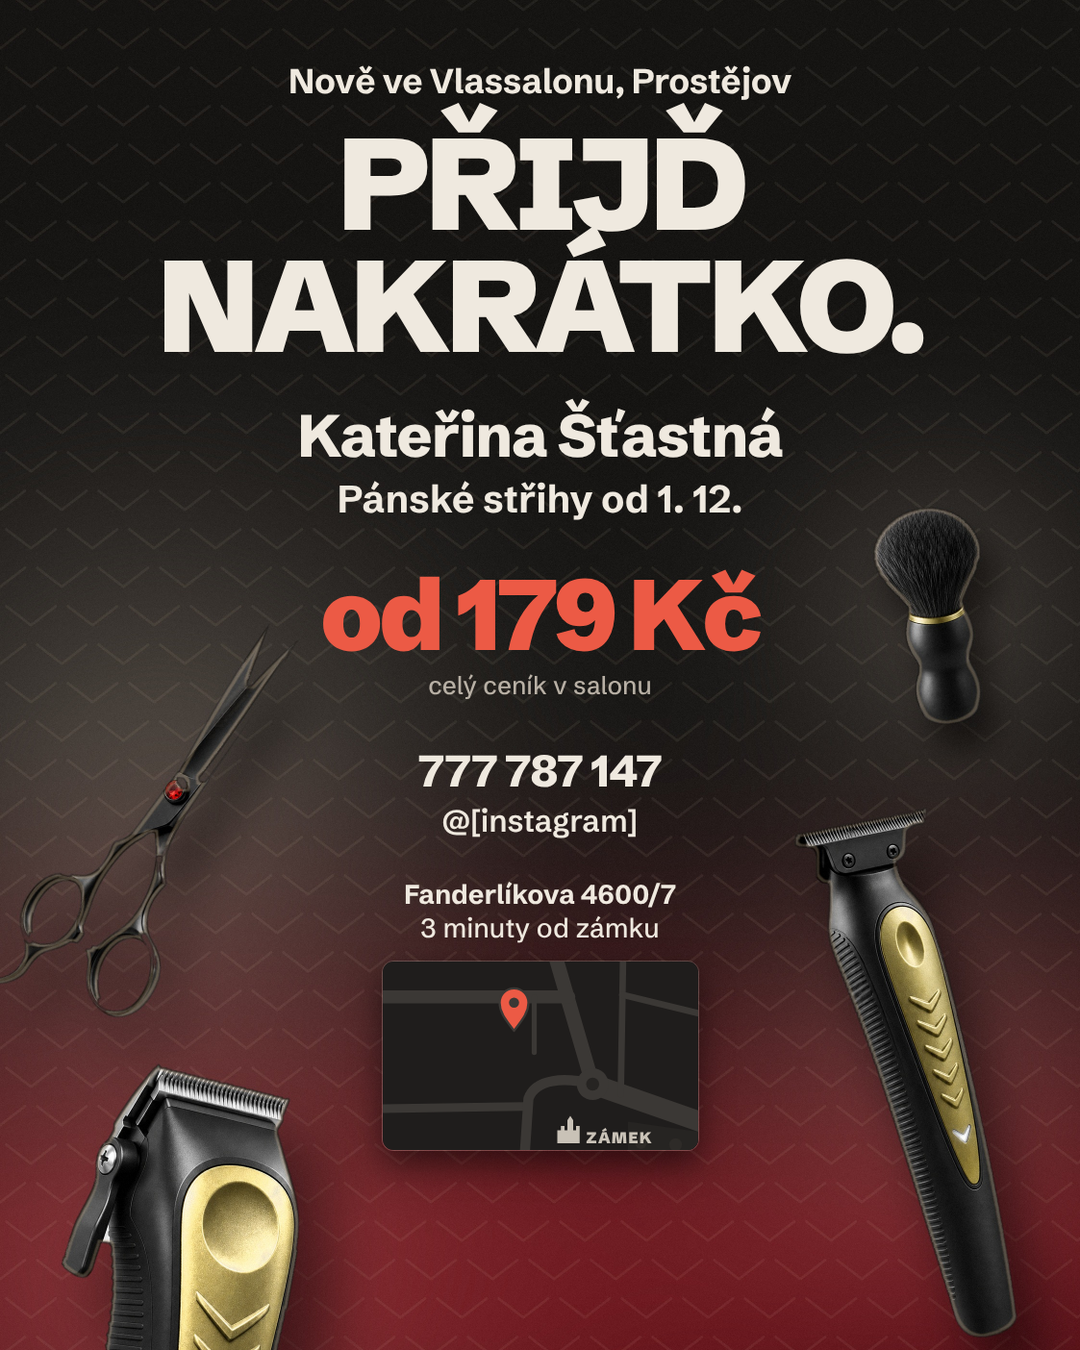
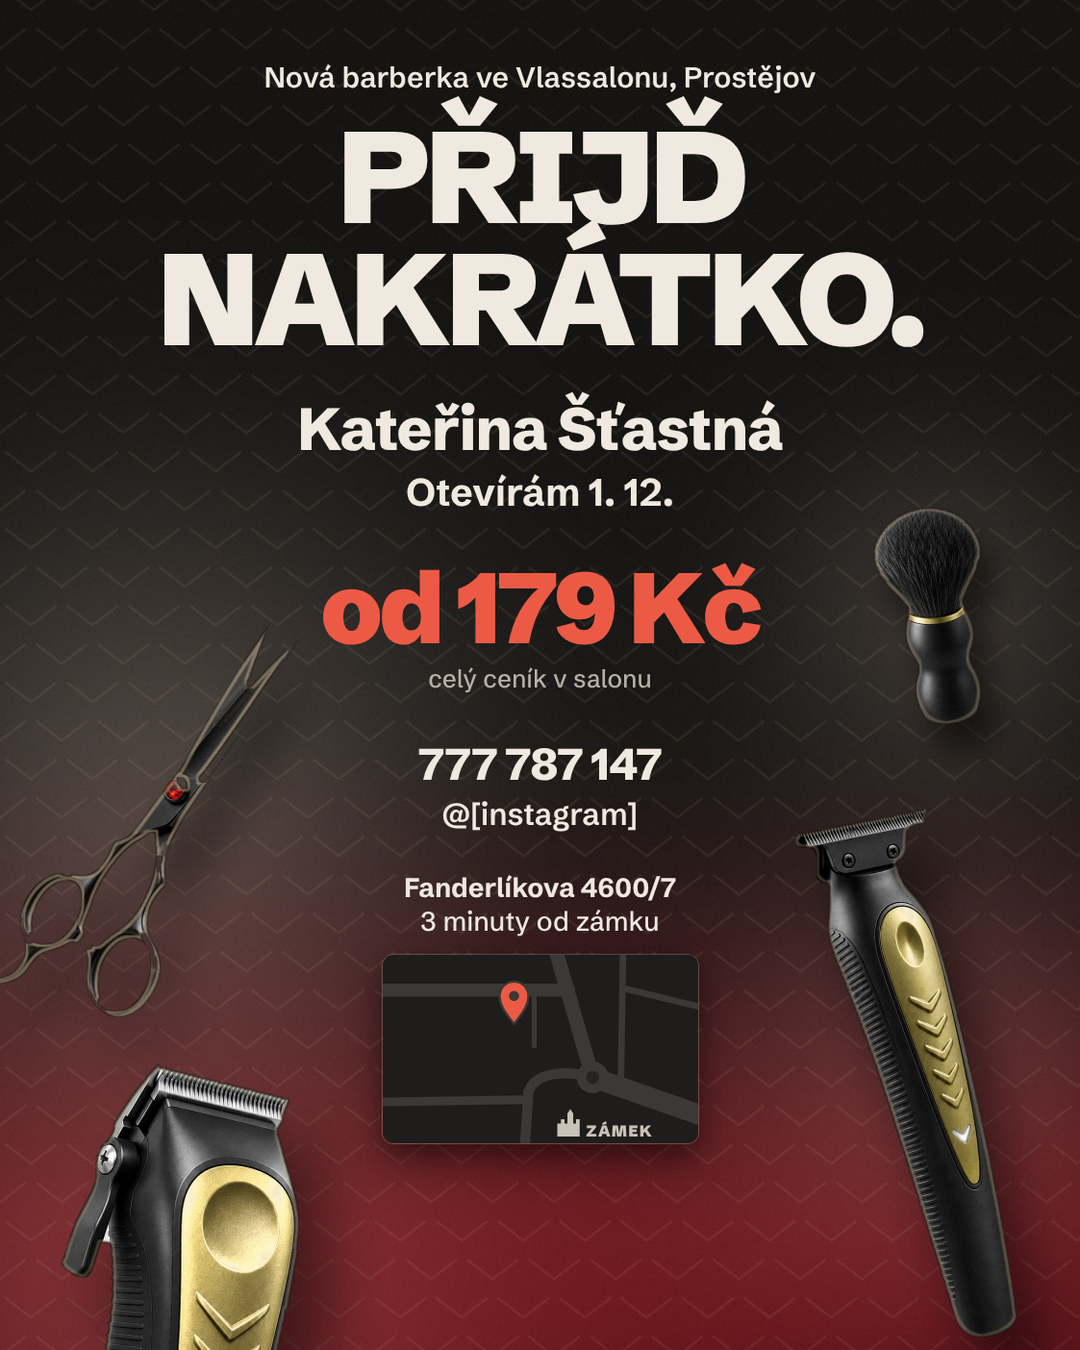
Bannery v3: Otevírám 1. 12., klidnější hlavička, čistá mapa, výraznější nůžky
Claude-Session: https://claude.ai/code/session_01RLvrBM31W1ND6LwrKFPMmF

diff --git a/export/final-v3/build.py b/export/final-v3/build.py
@@ -10,15 +10,17 @@ def mapsvg(p,w,h):
     for k,v in dict(p['map'],accent=p['acc']).items(): t=t.replace('{'+k+'}',v)
     t=re.sub(r'<g fill="[^"]*" font-family="Schibsted Grotesk, Arial, sans-serif" font-size="12".*?</g>\n?','',t,flags=re.S)
     t=re.sub(r'(<text[^>]*?)font-size="13"([^>]*>ZÁMEK</text>)',r'\1font-size="22"\2',t)
+    t=re.sub(r'<path d="M380 372[^>]*></path>\s*','',t)
+    t=re.sub(r'<circle cx="(398|446|488)"[^>]*></circle>\s*','',t)
     return t
 def column(p,W,top,s=1.0,g=1.0):
     z=lambda v:round(v*s)
     m=lambda v:round(v*s*g)
     return f'''<div style="position:absolute;left:0;top:{top}px;width:{W}px;display:flex;flex-direction:column;align-items:center;text-align:center;color:{p['ink']}">
-  <span style="font-size:{z(36)}px;font-weight:700;letter-spacing:-.01em">Nově ve Vlassalonu, Prostějov</span>
+  <span style="font-size:{z(30)}px;font-weight:600">Nová barberka ve Vlassalonu, Prostějov</span>
   <span style="margin-top:{m(22)}px;font-size:{z(135)}px;font-weight:900;line-height:.94;letter-spacing:-.04em;text-transform:uppercase">Přijď<br>nakrátko.</span>
   <span style="margin-top:{m(40)}px;font-size:{z(62)}px;font-weight:800;letter-spacing:-.02em;line-height:1">Kateřina Šťastná</span>
-  <span style="margin-top:{z(10)}px;font-size:{z(40)}px;font-weight:700">Pánské střihy od 1. 12.</span>
+  <span style="margin-top:{z(10)}px;font-size:{z(40)}px;font-weight:700">Otevírám 1. 12.</span>
   <span style="margin-top:{m(44)}px;font-size:{z(104)}px;font-weight:900;line-height:1;letter-spacing:-.035em;color:{p['acc']}">od 179 Kč</span>
   <span style="margin-top:{z(6)}px;font-size:{z(26)}px;font-weight:500;color:{p['mut']}">celý ceník v salonu</span>
   <span style="margin-top:{m(44)}px;font-size:{z(46)}px;font-weight:800;letter-spacing:-.01em">777 787 147</span>
